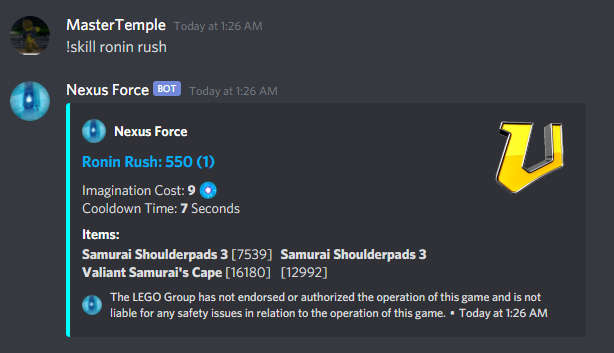
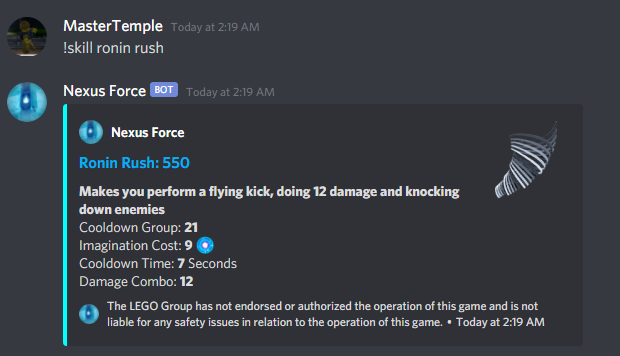
MASSIVE SKILLS ADDITION

Changed region(s): [[0.0, 0.2181, 0.8974, 0.966], [0.0, 0.0312, 0.4332, 0.1558], [0.7736, 0.3428, 0.9283, 0.5609]]

diff --git a/commands/skillItems.js b/commands/skillItems.js
@@ -2,8 +2,8 @@ module.exports = {
     name: ['skillitem', 'skillitems'],
     description: 'Get all objects by its skill in LEGO Universe',
     args: true,
-    use: `skill [name or ID]`,
-    example: [`skill 550`, `skill Ronin Rush`],
+    use: `skillitems [name or ID]`,
+    example: [`skillitems 550`, `skill Ronin Rush`],
     execute(message, args) {
         function err() {
             try {
@@ -57,34 +57,34 @@ module.exports = {
             console.log(e)
             var uIcon = "https://images-ext-1.discordapp.net/external/yeozIqZ6L5llPU2kUINa2Y5agdt4reO0KN1Q1YAjAOQ/%3Fcb%3D20121121213649/https/static.wikia.nocookie.net/legomessageboards/images/c/ce/LU2.png/revision/latest"
         }
-        let desc = ``
-        if(skillToCDGFile[skillID]['cdg'] !== undefined){
-            desc = `${desc}Cooldown Group: **${skillToCDGFile[skillID]['cdg']}**\n`
-        }
-        if(skillData.imaginationCost !== null && skillData.cooldownTime !== null){
-            desc = `${desc}Imagination Cost: **${skillData.imaginationCost}** ${emojis.imagination}\nCooldown Time: **${skillData.cooldownTime}** Seconds\n`
-        }
-        if(skillData.imBonusUI !== null){
-            desc = `${desc}Bonus: **${skillData.imBonusUI}** ${emojis.imagination}\n`
-        }
-        if(skillData.armorBonusUI !== null){
-            desc = `${desc}Bonus: **${skillData.armorBonusUI}** ${emojis.armor}\n`
-        }
-        if(skillData.lifeBonusUI !== null){
-            desc = `${desc}Bonus: **${skillData.lifeBonusUI}** ${emojis.heart}\n`
-        }
-
-
-        if(skillToCDGFile[skillID]['damageCombo'] !== undefined){
-            desc = `${desc}Damage Combo: **${skillToCDGFile[skillID]['damageCombo']}**\n`
-        }
-        if(skillToCDGFile[skillID]['ChargeUp'] !== undefined){
-            desc = `${desc}ChargeUp: **${skillToCDGFile[skillID]['ChargeUp']}**\n`
-        }
-
-        if(skillToCDGFile[skillID]['Description'] !== undefined){
-            desc = `${desc}**Description: **${skillToCDGFile[skillID]['Description']}\n`
-        }
+        // let desc = ``
+        // if(skillToCDGFile[skillID]['cdg'] !== undefined){
+        //     desc = `${desc}Cooldown Group: **${skillToCDGFile[skillID]['cdg']}**\n`
+        // }
+        // if(skillData.imaginationCost !== null && skillData.cooldownTime !== null){
+        //     desc = `${desc}Imagination Cost: **${skillData.imaginationCost}** ${emojis.imagination}\nCooldown Time: **${skillData.cooldownTime}** Seconds\n`
+        // }
+        // if(skillData.imBonusUI !== null){
+        //     desc = `${desc}Bonus: **${skillData.imBonusUI}** ${emojis.imagination}\n`
+        // }
+        // if(skillData.armorBonusUI !== null){
+        //     desc = `${desc}Bonus: **${skillData.armorBonusUI}** ${emojis.armor}\n`
+        // }
+        // if(skillData.lifeBonusUI !== null){
+        //     desc = `${desc}Bonus: **${skillData.lifeBonusUI}** ${emojis.heart}\n`
+        // }
+        //
+        //
+        // if(skillToCDGFile[skillID]['damageCombo'] !== undefined){
+        //     desc = `${desc}Damage Combo: **${skillToCDGFile[skillID]['damageCombo']}**\n`
+        // }
+        // if(skillToCDGFile[skillID]['ChargeUp'] !== undefined){
+        //     desc = `${desc}ChargeUp: **${skillToCDGFile[skillID]['ChargeUp']}**\n`
+        // }
+        //
+        // if(skillToCDGFile[skillID]['Description'] !== undefined){
+        //     desc = `${desc}**Description: **${skillToCDGFile[skillID]['Description']}\n`
+        // }
 
         let embedArray = []
 
@@ -128,7 +128,7 @@ module.exports = {
         let num = 1
         embedArray.forEach(function(e){
 
-            let embed = msgEmbed.execute(`${skillName}: ${skillID} (${num})`, desc,`https://lu-explorer.web.app/skills/${skillID}`, uIcon)
+            let embed = msgEmbed.execute(`${skillName}: ${skillID} (${num})`, undefined,`https://lu-explorer.web.app/skills/${skillID}`, uIcon)
 
             embed.addField("Items:", e.field1, true)
             if(e.field2 === ''){

diff --git a/commands/skill.js b/commands/skill.js
@@ -1,0 +1,93 @@
+module.exports = {
+    name: ['skill'],
+    description: 'Get all objects by its skill in LEGO Universe',
+    args: true,
+    use: `skill [name or ID]`,
+    example: [`skill 550`, `skill Ronin Rush`],
+    execute(message, args) {
+        function err() {
+            try {
+                const help = require(`./help.js`);
+                help.execute(message, module.exports.name)
+                //console.log(`fail`)
+                return
+            } catch (error) {
+                console.error(error);
+            }
+        }
+        if(args.length > 1 || isNaN(args[0])){
+            let findOne = require(`./../functions/findOneSkill.js`)
+            var skillID = findOne.execute(args)
+            if(skillID===undefined){
+                message.channel.send("A Skill with this Name does not exist.")
+                //err()
+                return
+            }
+        }else{
+            var skillID = args[0]
+        }
+
+        try {
+            var skillToCDGFile = require(`./../output/references/Skills.json`)
+            try{
+                var skillName = skillToCDGFile[skillID]['name']
+            }catch{
+                var skillName = `SkillID`
+            }
+            let cooldowngroup = skillToCDGFile[skillID]['cdg']
+            let CDGFile = require(`./../output/cooldowngroup/${cooldowngroup}.json`)
+            var skillData = CDGFile['skillIDs'][skillID]
+
+        }catch(e){
+            console.log(e)
+            message.channel.send("A skill with this skillID does not exist.")
+            err()
+            return
+        }
+        //console.log(skillData)
+        //return
+
+
+        const {invisChar, emojis} = require('./../config.json');
+
+        let msgEmbed = require(`./../functions/embedTemplate.js`)
+        try{
+            var uIcon = skillToCDGFile[skillID]['iconURL']
+        }catch(e) {
+            console.log(e)
+            var uIcon = "https://images-ext-1.discordapp.net/external/yeozIqZ6L5llPU2kUINa2Y5agdt4reO0KN1Q1YAjAOQ/%3Fcb%3D20121121213649/https/static.wikia.nocookie.net/legomessageboards/images/c/ce/LU2.png/revision/latest"
+        }
+        let desc = ``
+        if(skillToCDGFile[skillID]['Description'] !== undefined){
+            desc = `${desc}**${skillToCDGFile[skillID]['Description']}**\n`
+        }
+        if(skillToCDGFile[skillID]['cdg'] !== undefined){
+            desc = `${desc}Cooldown Group: **${skillToCDGFile[skillID]['cdg']}**\n`
+        }
+        if(skillData.imaginationCost !== null && skillData.cooldownTime !== null){
+            desc = `${desc}Imagination Cost: **${skillData.imaginationCost}** ${emojis.imagination}\nCooldown Time: **${skillData.cooldownTime}** Seconds\n`
+        }
+        if(skillData.imBonusUI !== null){
+            desc = `${desc}Bonus: **${skillData.imBonusUI}** ${emojis.imagination}\n`
+        }
+        if(skillData.armorBonusUI !== null){
+            desc = `${desc}Bonus: **${skillData.armorBonusUI}** ${emojis.armor}\n`
+        }
+        if(skillData.lifeBonusUI !== null){
+            desc = `${desc}Bonus: **${skillData.lifeBonusUI}** ${emojis.heart}\n`
+        }
+
+
+        if(skillToCDGFile[skillID]['damageCombo'] !== undefined){
+            desc = `${desc}Damage Combo: **${skillToCDGFile[skillID]['damageCombo']}**\n`
+        }
+        if(skillToCDGFile[skillID]['ChargeUp'] !== undefined){
+            desc = `${desc}ChargeUp: **${skillToCDGFile[skillID]['ChargeUp']}**\n`
+        }
+
+
+        let embed = msgEmbed.execute(`${skillName}: ${skillID} `, desc,`https://lu-explorer.web.app/skills/${skillID}`, uIcon)
+        message.channel.send(embed)
+
+    }
+}

diff --git a/functions/findOneSkill.js b/functions/findOneSkill.js
@@ -17,7 +17,7 @@ module.exports = {
         //         }
         //     }catch{}
         // }
-        let skillID
+        let skillID = []
         Object.keys(item).forEach(function(el, key,arr){
             //console.log(el,key)
 
@@ -26,14 +26,12 @@ module.exports = {
                     return item[el].name.toLowerCase().includes(e)
                 });
                 if (allMatch) {
-                    //console.log(Object.keys(item)[key], item[el])
-                    skillID = Object.keys(item)[key]
+                    skillID.push(Object.keys(item)[key])
                     return Object.keys(item)[key]
                 }
             }catch{}
         })
-        //console.log(skillID)
-        return skillID
+        return skillID[0]
 
 
 

diff --git a/README.md b/README.md
@@ -91,7 +91,7 @@ Nexus Force LEGO Universe Bot
 ![img_14.png](src/img_14.png)
 # To Prevent Spam, Some Commands With Large Messages Are DMed To The User
 Some of the content might be short, but it has the potential to be very long. To prevent abuse, the bot DM's the user the info.
-# !skill
+# !skillitems
 ![img_18.png](src/img_18.png)\
 ![img_13.png](src/img_13.png)
 
